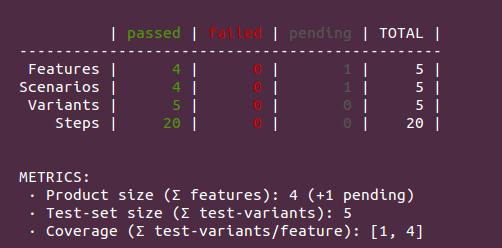
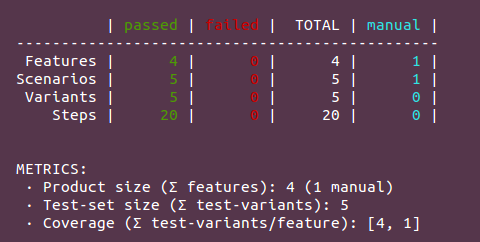
release v0.5.0

Changed region(s): [[0.0312, 0.0579, 0.9062, 0.5207], [0.0312, 0.6653, 0.875, 0.9835]]

diff --git a/presentation/index.html b/presentation/index.html
@@ -111,12 +111,12 @@
 						<p>
 							Real stats and metrics counting<br/>features, scenarios, variants and steps
 						</p>
-						<img width="502" height="248" src="img/report_gherkin_metrics.png">
+						<img width="480" height="242" src="img/report_gherkin_metrics.png">
 					</section>
 					<section>
 						<h2>New reporters</h2>
 						<h4>Markdown Gherkin reporter</h4>
-						<img width="500" src="img/report_gherkin_markdown.png">
+						<img width="490" src="img/report_gherkin_markdown.png">
 					</section>
 				</section>
 
@@ -128,10 +128,10 @@ var tartare = require('tartare');
 					</code></pre>
 					<h4><br/>Running tests</h4>
 					<pre><code class="bash">
-$ mocha --reporter tartare/gherkin --ui bdd ./acceptance
+$ tartare --reporter gherkin --recursive ./acceptance
 					</code></pre>
 					<pre><code class="bash">
-$ mocha --reporter tartare/gherkin-md --ui bdd ./acceptance
+$ tartare --reporter gherkin-md --recursive ./acceptance
 					</code></pre>
 				</section>
 
@@ -188,13 +188,30 @@ feature('Addition', function() {
 					</section>
 
 					<section>
-						<h2>Pending Scenarios</h2><br/>
+						<h2>Manual</h2>
+						<h3>Features/Scenarios/Steps</h3><br/>
 						<pre><code class="javascript">
 feature('Multiplication', function() {
-  scenario('Multiply two numbers');
+  scenario('Multiply two numbers');  // This is a manual scenario
+});
+feature.manual('Addition', function() {  // This is a manual feature
+  scenario('Add two numbers', function () { [...] });
 });
 						</code></pre>
-						<img width="375" height="130" src="img/report_gherkin_pending_scenario.png">
+						<img width="641" height="272" src="img/report_gherkin_manual.png">
+					</section>
+
+					<section>
+						<h2>Skipped</h2>
+						<h3>Features/Scenarios/Steps</h3><br/>
+						<pre><code class="javascript">
+// This feature is completely ignored
+feature.skip('Multiplication', function() {
+  scenario('Multiply two numbers', function() {
+    [...]
+  });
+});
+						</code></pre>
 					</section>
 
 				</section>
@@ -205,7 +222,7 @@ feature('Multiplication', function() {
 						<pre><code class="javascript">
 var dataset = [
   { desc: '50 + 70 = 120', num1: 50, num2: 70, result: 120 },
-  { desc: '100 + 90 = 190', num1: 100, num2: 90, result: 190 },
+  { desc: '100 + 90 = 190', num1: 100, num2: 90, result: 190 }
 ];
 
 feature('Addition', function() {
@@ -226,13 +243,111 @@ feature('Addition', function() {
 
 					<section>
 						<h2>Variants</h2><br/>
-						<h4 style="text-transform: none">SPECIAL FIELDS: tag, bugId, desc</h4><br/>
+						<h3>Manual & Skipped</h3>
 						<pre><code class="javascript">
 var dataset = [
-  { tag: 'reviewed', bugId: 'JIRAID-264', desc: '50 + 70 = 120', num1: 50, num2: 70, result: 120 },
+  { manual: true, desc: '50 + 70 = 120', num1: 50, num2: 70, result: 120 },
+  { skip: true, desc: '100 + 90 = 190', num1: 100, num2: 90, result: 190 }
 ];
 						</code></pre>
-						<img width="617" height="162" src="img/report_gherkin_variants_special.png">
+						<img width="659" height="211" src="img/report_gherkin_variants_manual_skipped.png">
+					</section>
+				</section>
+
+				<section>
+					<section>
+						<h2>Bug monitoring</h2>
+						<h3>Minor bugs</h3><br/>
+						<h4>They are not executed and count as passed</h4>
+						<pre><code class="javascript">
+feature('Addition', function() {
+  scenario('Add two numbers', function() {
+    given('I have entered 50 into the calculator', function() { });
+    and('I have entered 70 into the calculator', function() { });
+    when('I press add', function() { });
+    then('the result should be 120 on the screen', function() { });
+  }).minorBug('bug12345');
+});
+						</code></pre>
+						<img width="547" height="184" src="img/report_gherkin_minorbug.png">
+					</section>
+
+					<section>
+						<h2>Bug monitoring</h2>
+						<h3>Major bugs</h3><br/>
+						<h4>They are executed and count as failed</h4>
+						<pre><code class="javascript">
+feature('Addition', function() {
+  scenario('Add two numbers', function() {
+    given('I have entered 50 into the calculator', function() { });
+    and('I have entered 70 into the calculator', function() { });
+    when('I press add', function() { });
+    then('the result should be 120 on the screen', function() { });
+  }).majorBug('bug12345');
+});
+						</code></pre>
+						<img width="617" height="187" src="img/report_gherkin_majorbug.png">
+					</section>
+
+					<section>
+						<h2>Bug monitoring</h2>
+						<h3>Variants</h3><br/>
+						<pre><code class="javascript">
+var dataset = [
+  { minorBug: 'bug12345', desc: '50 + 70 = 120', num1: 50, num2: 70, result: 120 },
+  { majorBug: 'bug54321', desc: '100 + 90 = 190', num1: 100, num2: 90, result: 190 }
+];
+						</code></pre>
+						<img width="622" height="305" src="img/report_gherkin_bugs_variants.png">
+					</section>
+
+					<section>
+						<h2>Bug monitoring</h2>
+						<h3>Links</h3><br/>
+						<p>
+							On markdown reports, bug ids will be links<br/>if the <code>--bugid-link</code> parameter is provided.
+						</p>
+						<pre><code class="bash">
+$ tartare --reporter gherkin-md --bugid-link "http://bugtrackingsystem/%s" --recursive ./acceptance
+						</code></pre>
+						<img width="396" height="208" src="img/report_gherkin_bugs_link.png">
+					</section>
+				</section>
+
+				<section>
+					<section>
+						<h2>Tags</h2>
+						<h4>Tagging features/scenarios/variants</h4><br/>
+						<pre><code class="javascript">
+feature('Addition', function() {
+  var dataset = [
+    { tag: 'tag4', desc: '50 + 70 = 120', num1: 50, num2: 70, result: 120 },
+    { tag: 'tag5', desc: '100 + 90 = 190', num1: 100, num2: 90, result: 190 }
+  ];
+  scenario('Add two numbers', dataset, function(variant) { }).tag('tag2');
+  scenario('Add two negative numbers', function() { }).tag('tag3', 'tagA');
+}).tag('tag1');
+						</code></pre>
+					</section>
+
+					<section>
+						<h2>Tags</h2>
+						<h4>Filtering test execution</h4><br/>
+						<pre><code class="bash">
+# Run tests having tag4 and tag3
+$ tartare --reporter gherkin --filter "+tag4,+tag3" --recursive ./acceptance
+# Run tests having tag2 and not having tag5
+$ tartare --reporter gherkin --filter "+tag2,-tag5" --recursive ./acceptance
+# Run tests having tag2 or tagA
+$ tartare --reporter gherkin --filter "+tag2|-tagA" --recursive ./acceptance
+# Run tests having tag4 or having tag3 and tagA
+$ tartare --reporter gherkin --filter "+tag4|(+tag3&+tagA)" --recursive ./acceptance
+						</code></pre>
+						<br/>
+						<p>
+							'manual' and 'bug' are reserved tags that are set by Tartare when using the
+							<code>.manual</code> modifier or <code>minorBug/majorBug</code> methods.
+						</p>
 					</section>
 				</section>
 
@@ -397,20 +512,20 @@ feature('Configuration', function() {
 				</section>
 
 				<section>
-					<h2>Skip and Only</h2><br/>
-					<p>You can use the .skip and .only version<br/>of <b>feature</b> and <b>scenario</b> keywords</p>
+					<h2>Only</h2><br/>
+					<p>You can use the .only version<br/>of <b>feature</b> and <b>scenario</b> keywords</p>
 					<pre><code class="javascript">
 feature.only('Addition', function() {
-  scenario.skip('Add two numbers', function() {
+  scenario.only('Add two numbers', function() {
     [...]
   });
 });
 					</code></pre>
-					<p>It also works with <b>variants</b> including<br/>the fields <b>skip</b> or <b>only</b> set to a truthy value</p>
+					<p>It also works with <b>variants</b> including<br/>the field <b>only</b> set to a truthy value</p>
 					<pre><code class="javascript">
 var dataset = [
-  { skip: true, desc: '50 + 70 = 120', num1: 50, num2: 70, result: 120 },
-  { only: true, desc: '100 + 90 = 190', num1: 100, num2: 90, result: 190 },
+  { only: true, desc: '50 + 70 = 120', num1: 50, num2: 70, result: 120 },
+  { desc: '100 + 90 = 190', num1: 100, num2: 90, result: 190 },
 ];
 					</code></pre>
 				</section>
